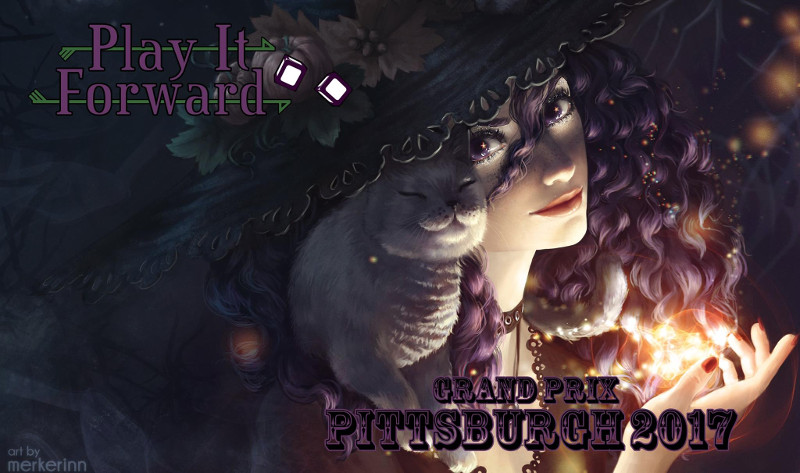
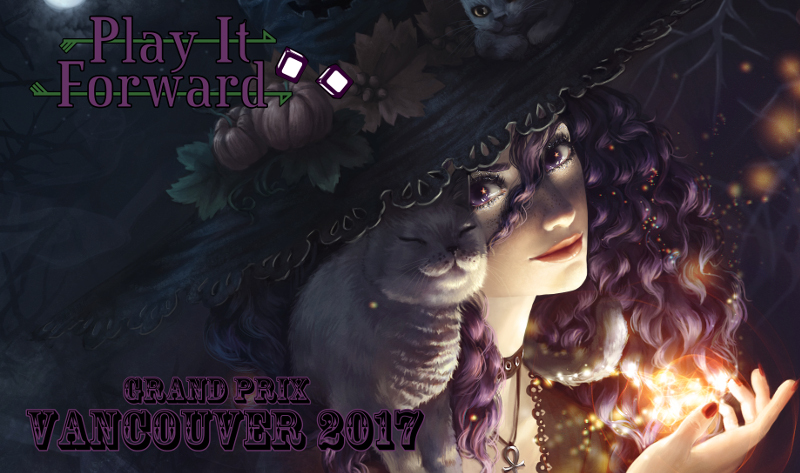
Updating prize and GP information

diff --git a/grails-app/assets/javascripts/playitforward/index/templates/contests.tpl.html b/grails-app/assets/javascripts/playitforward/index/templates/contests.tpl.html
@@ -1,50 +1,12 @@
 
 <div role="main">
 
-    <h1>Unique Bounties:</h1>
+    <h1>Pro Tour Qualifier Bounty:</h1>
 
-    <table>
-
-        <thead>
-
-            <tr>
-                <th>GP</th>
-                <th>Donor</th>
-                <th>Prize</th>
-            </tr>
-
-        </thead>
-
-        <tbody>
-
-            <tr>
-                <td>GP Pittsburgh</td>
-                <td>Platinum Pro Sam Pardee</td>
-                <td>Mentoring on draft strategies via Skype on Modo with 70 tickets to purchase 5 drafts.</td>
-            </tr>
-
-            <tr>
-                <td>GP Pittsburgh</td>
-                <td>Erin Campbell</td>
-                <td>One box Shadows Over Innistrad to the leading lady.</td>
-            </tr>
-
-            <tr>
-                <td>GP New Jersey</td>
-                <td>Cassidy Melczak</td>
-                <td>One box Aether Revolt to the leading lady.</td>
-            </tr>
-
-            <tr>
-                <td>GP San Jose</td>
-                <td>Cassidy Melczak</td>
-                <td>One box Aether Revolt to the leading lady.</td>
-            </tr>
-
-        </tbody>
-
-    </table>
-
+    <p>
+        A donor who wishes to remain anonymous is donating one box of every set legal in standard
+        to the first woman to make the top 8 of one of the new Day 2 PTQ tournaments.
+    </p>
 
     <h1>Playmat Bounties:</h1>
 
@@ -90,6 +52,96 @@
     <div ng-bind-html="getPromotionString()">
     </div>
 
-    <br/><br/><br/><br/>
+    <h1>Unique Bounties:</h1>
+
+    <table>
+
+        <thead>
+
+            <tr>
+                <th>Event</th>
+                <th>Donor</th>
+                <th>Prize</th>
+            </tr>
+
+        </thead>
+
+        <tbody>
+
+            <tr>
+                <td>GP San Jose</td>
+                <td>Cassidy Melczak</td>
+                <td>One box Aether Revolt to the leading lady.</td>
+            </tr>
+
+            <tr>
+                <td>GP Pittsburgh</td>
+                <td>Platinum Pro Sam Pardee</td>
+                <td>Mentoring on draft strategies via Skype on Modo with 70 tickets to purchase 5 drafts.</td>
+            </tr>
+
+            <tr>
+                <td>GP Pittsburgh</td>
+                <td>Erin Campbell</td>
+                <td>One box Shadows Over Innistrad to the leading lady.</td>
+            </tr>
+
+            <tr>
+                <td>GP Vancouver</td>
+                <td>Jacob Wilson</td>
+                <td>Mentoring on Skype.</td>
+            </tr>
+
+            <tr>
+                <td>GP Vancouver</td>
+                <td>Philip Yam</td>
+                <td>1 pack of Revised.</td>
+            </tr>
+
+            <tr>
+                <td>GP Vancouver</td>
+                <td>Courtney Rudiger</td>
+                <td>The entry fee to your next Grand Prix.</td>
+            </tr>
+
+            <tr>
+                <td>GP Vancouver</td>
+                <td>Max Kahn</td>
+                <td>One Limited Edition Judge Foil of Zur the Enchanter.</td>
+            </tr>
+
+            <tr>
+                <td>GP New Jersey</td>
+                <td>Cassidy Melczak</td>
+                <td>One box Aether Revolt to the leading lady.</td>
+            </tr>
+
+            <tr>
+                <td>GP New Jersey</td>
+                <td>Philip Yam</td>
+                <td>1 pack of Revised.</td>
+            </tr>
+
+            <tr>
+                <td>GP Orlando</td>
+                <td>Philip Yam</td>
+                <td>1 pack of Revised.</td>
+            </tr>
+
+            <tr>
+                <td>GP San Antonio</td>
+                <td>Philip Yam</td>
+                <td>1 pack of Revised.</td>
+            </tr>
+
+            <tr>
+                <td>GP Richmond</td>
+                <td>Philip Yam</td>
+                <td>1 pack of Revised.</td>
+            </tr>
+
+        </tbody>
+
+    </table>
 
 </div>

diff --git a/grails-app/assets/javascripts/playitforward/index/templates/gp.tpl.html b/grails-app/assets/javascripts/playitforward/index/templates/gp.tpl.html
@@ -1,13 +1,10 @@
 
 <div role="main">
 
-    <h2 class="form-signin-heading">GP Pittsburgh:</h2>
+    <h2 class="form-signin-heading">GP Vancouver:</h2>
 
     <p>
-        It seems like San Jose was moments ago but we are already at GP Pittsburgh!
-        <a ui-sref="mailingList">Sign up</a> to let us know you are
-        competing.  Please fill out your name as it appears on the standings boards.  If you want you can email us
-        as well to ask for a spot in our beta test of push notifications of pairings.
+
     </p>
 
     <p>
@@ -23,23 +20,19 @@
     <img class="playmat-image" src="/assets/currentMat.jpg" />
 
     <p>
-        <b>But that is not all.</b>  Erin Campbell of <a href="http://www.gatheringmagic.com/category/the-girlfriend-bracket/">
-        The Girlfriend Bracket</a> and <a href="http://magicmicspodcast.libsyn.com/">Magic Mics</a> podcasts
-        is donating one box of Shadows Over Innistrad and none other than
-        <a href="http://www.channelfireball.com/author/sam-pardee/">Platinum Pro Sam Pardee</a> is donating a modo mentorship.
-        Sam will find a time to skype with the winner to discuss drafting tactics in this set as well as provide
-        70 tickets for up to 5 drafts.
+        Is there more?  Of course there is more.  We have a Limited Edition Zur the Enchanter Judge Foil
+        from Max Kahn. One pack of Revised from Phillip Yam.  A mentorship prize from none other than
+        Jacob Wilson. And to top it all off Courtney Rudiger is offering to cover your entry fee to the next GP
+        you play in.
     </p>
 
     <p>
-        None of the folks at Play It Forward can make it to Pittsburgh, but generally awesome judge
-        <a href="http://blogs.magicjudges.org/jotw/bryan-spellman/">Bryan Spellman</a>
-        will be holding the playmat and if anyone else wants to donate something on site you can look for him to
-        drop it off.
+        Play it forward director Simone Aiken will be at the event to bug you to sign up for our
+        <a ui-sref="mailingList">mailing list</a> and answer any questions you may have.
     </p>
 
     <p>
-    <center>So ladies, are you ready?  Go forth and conquer.</center>
+        <center>Lets get ready to (very politely) rumble!</center>
     </p>
 
 </div>
